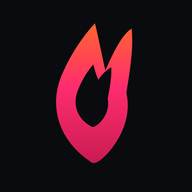
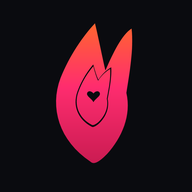
feat(brand): dating-badge heart cutout in nest as default mark
Promote dark negative-space heart inside open nest to production default
so the torch reads as fire + dating at Telegram/app sizes without
deforming the r3-06 outer path or using a pink sticker glyph.

Changed region(s): [[0.375, 0.3438, 0.5938, 0.6562]]

diff --git a/web/src/components/BrandMark.tsx b/web/src/components/BrandMark.tsx
@@ -1,15 +1,15 @@
 import { useId } from "react";
 
 /**
- * Знак марки: nested torch r3-06.
+ * Знак марки: nested torch r3-06 + тёмное сердце в гнезде (dating-бейдж).
  *
- * Снаружи пламя (оранж→малина), внутри тёмное гнездо с «ушками».
- * Без отдельного глифа и без крупного сердца. Геометрия = tools/brandmark.py.
+ * Снаружи пламя (оранж→малина), внутри открытое гнездо с «ушками»,
+ * ядро и negative-space сердце. Геометрия = tools/brandmark.py.
  */
 
-/** Пламя + гнездо (evenodd). viewBox 100×100. */
+/** Пламя + гнездо + ядро + сердце (evenodd). viewBox 100×100. */
 const ФАКЕЛ =
-  "M 50.000,81.494 C 35.850,72.061 31.470,57.236 36.523,43.760 C 40.566,33.652 46.631,24.893 52.021,19.165 C 54.043,27.588 55.391,35.000 56.738,40.391 C 60.107,32.642 64.150,24.219 68.530,21.523 C 69.541,30.957 67.520,41.738 66.172,50.498 C 68.530,60.605 64.150,70.713 57.412,78.125 C 53.369,82.168 51.348,82.842 50.000,81.494 Z M 50.450,65.683 C 44.323,62.473 41.919,56.266 44.070,50.074 C 45.803,45.173 48.630,40.724 51.251,37.715 C 52.094,40.674 52.757,43.065 53.580,44.592 C 54.551,43.065 56.403,40.674 59.349,38.964 C 59.645,43.824 58.476,49.114 57.743,53.202 C 58.691,57.762 56.497,61.957 53.480,64.624 C 51.798,65.881 50.994,66.076 50.450,65.683 Z";
+  "M 50.000,81.494 C 35.850,72.061 31.470,57.236 36.523,43.760 C 40.566,33.652 46.631,24.893 52.021,19.165 C 54.043,27.588 55.391,35.000 56.738,40.391 C 60.107,32.642 64.150,24.219 68.530,21.523 C 69.541,30.957 67.520,41.738 66.172,50.498 C 68.530,60.605 64.150,70.713 57.412,78.125 C 53.369,82.168 51.348,82.842 50.000,81.494 Z M 50.450,65.683 C 44.323,62.473 41.919,56.266 44.070,50.074 C 45.803,45.173 48.630,40.724 51.251,37.715 C 52.094,40.674 52.757,43.065 53.580,44.592 C 54.551,43.065 56.403,40.674 59.349,38.964 C 59.645,43.824 58.476,49.114 57.743,53.202 C 58.691,57.762 56.497,61.957 53.480,64.624 C 51.798,65.881 50.994,66.076 50.450,65.683 Z M 50.504,64.849 C 44.745,61.832 42.485,55.997 44.507,50.177 C 46.136,45.570 48.793,41.388 51.257,38.559 C 52.049,41.341 52.673,43.588 53.446,45.024 C 54.359,43.588 56.100,41.341 58.869,39.734 C 59.147,44.302 58.048,49.275 57.359,53.117 C 58.251,57.404 56.188,61.347 53.352,63.854 C 51.771,65.036 51.015,65.219 50.504,64.849 Z M 51.350,54.688 C 50.654,53.232 48.450,52.112 48.450,50.992 C 48.450,49.648 50.074,49.200 51.350,50.768 C 52.626,49.200 54.250,49.648 54.250,50.992 C 54.250,52.112 52.046,53.232 51.350,54.688 Z";
 
 export default function BrandMark({
   size = 64,

diff --git a/tools/brandmark.py b/tools/brandmark.py
@@ -1,12 +1,16 @@
-"""Знак марки: факел рассвета с nested тёмным силуэтом (r3-06 dawn).
+"""Знак марки: факел рассвета + dating-бейдж (сердце в гнезде).
 
-Снаружи — силуэт пламени/факела, градиент оранж → малина.
-Внутри — тёмное гнездо той же формы («ушки»), без отдельного глифа
-(+, бар, искра) и без крупного сердца, ломающего контур.
+Снаружи — силуэт пламени/факела r3-06, градиент оранж → малина.
+Внутри — открытое гнездо (ушки), затем ядро того же силуэта и
+тёмное сердце negative-space в оптическом центре nest.
+Иерархия как у Mimolet (внешняя форма + dating-noun), без деформации
+outer path. Сердце = вырез в цвет ядра/фона (#0a0b0f), не розовая
+наклейка и не белый глиф.
 
 Геометрия — outer r3-06-dawn (viewBox 1024→100) без изменений силуэта.
 Nest открыт ~11% и перераспределён по весу кольца (evenodd): тоньше
 пики/ушки, плотнее ножка. Долина стыка шардов сохранена.
+Core = nest ×0.94 от bbox-центра nest; сердце ~20% высоты nest.
 
 Растр через 4× supersample — PIL polygon без него оставлял светлую
 щель на AA.
@@ -58,26 +62,34 @@ _NEST_100 = (
     "C 51.798,65.881 50.994,66.076 50.450,65.683 Z"
 )
 
-# Микро-сердце внутри nest — только для A/B variant, не default mark.
-# viewBox 100; центр гнезда ~ (51.3, 52.5), компактно чтобы не
-# касаться ушек и не читаться как «сердце-факел».
+# Ядро гнезда: nest ×0.94 от bbox-центра nest — тонкое тёмное кольцо
+# ушек остаётся «открытым гнездом», внутри — поверхность под вырез сердца.
+_CORE_100 = (
+    "M 50.504,64.849 C 44.745,61.832 42.485,55.997 44.507,50.177 "
+    "C 46.136,45.570 48.793,41.388 51.257,38.559 "
+    "C 52.049,41.341 52.673,43.588 53.446,45.024 "
+    "C 54.359,43.588 56.100,41.341 58.869,39.734 "
+    "C 59.147,44.302 58.048,49.275 57.359,53.117 "
+    "C 58.251,57.404 56.188,61.347 53.352,63.854 "
+    "C 51.771,65.036 51.015,65.219 50.504,64.849 Z"
+)
+
+# Тёмное сердце в оптическом центре nest (~51.35, 52.0).
+# Высота ≈20% nest — читается в круге Telegram и на 32px, не гигант.
 _HEART_100 = (
-    "M 51.30,55.55 "
-    "C 49.95,54.55 48.95,53.35 48.95,52.05 "
-    "C 48.95,51.05 49.70,50.40 50.55,50.40 "
-    "C 50.95,50.40 51.30,50.60 51.30,50.60 "
-    "C 51.30,50.60 51.65,50.40 52.05,50.40 "
-    "C 52.90,50.40 53.65,51.05 53.65,52.05 "
-    "C 53.65,53.35 52.65,54.55 51.30,55.55 Z"
+    "M 51.350,54.688 "
+    "C 50.654,53.232 48.450,52.112 48.450,50.992 "
+    "C 48.450,49.648 50.074,49.200 51.350,50.768 "
+    "C 52.626,49.200 54.250,49.648 54.250,50.992 "
+    "C 54.250,52.112 52.046,53.232 51.350,54.688 Z"
 )
 
 # Половина высоты внешнего пламени в unit-space (для масштаба r).
 # (81.494 − 19.165) / 2 ≈ 31.16
 _UNIT_HALF = 31.16
 
-# Публичный path для сверки со SVG-носителями (outer + nest, evenodd).
-ФАКЕЛ_PATH_100 = f"{_OUTER_100} {_NEST_100}"
-ФАКЕЛ_HEART_PATH_100 = f"{_OUTER_100} {_NEST_100} {_HEART_100}"
+# Публичный path: outer \\ nest ∪ core \\ heart (evenodd).
+ФАКЕЛ_PATH_100 = f"{_OUTER_100} {_NEST_100} {_CORE_100} {_HEART_100}"
 
 # r3-06 асимметричен: левое ухо шире, правый кончик дальше.
 # Геометрический якорь path (50,50) и даже bbox силуэта врут — без
@@ -199,9 +211,11 @@ def _com_кольца(
 
 _OUTER_POLY = _полигон_из_path(_OUTER_100)
 _NEST_POLY = _полигон_из_path(_NEST_100)
+_CORE_POLY = _полигон_из_path(_CORE_100)
 _HEART_POLY = _полигон_из_path(_HEART_100)
 
 # Оптический якорь = COM цветного кольца (X с весом ушек), не bbox.
+# Считаем по outer\\nest — поля/safe margin как в 3f753cf.
 _ЯКОРЬ_X, _ЯКОРЬ_Y = _com_кольца(_OUTER_POLY, _NEST_POLY)
 
 
@@ -235,9 +249,8 @@ def _маска_знака(
     cx: float,
     cy: float,
     r: float,
-    с_сердцем: bool = False,
 ) -> Image.Image:
-    """Alpha-маска кольца (outer \\ nest), опционально + микро-сердце."""
+    """Alpha-маска: (outer \\ nest) ∪ (core \\ heart)."""
     if r < 1:
         return Image.new("L", size, 0)
 
@@ -246,14 +259,15 @@ def _маска_знака(
     big = (w * ss, h * ss)
     outer = _масштаб(_OUTER_POLY, cx * ss, cy * ss, r * ss)
     nest = _масштаб(_NEST_POLY, cx * ss, cy * ss, r * ss)
+    core = _масштаб(_CORE_POLY, cx * ss, cy * ss, r * ss)
+    heart = _масштаб(_HEART_POLY, cx * ss, cy * ss, r * ss)
 
     маска = Image.new("L", big, 0)
     draw_m = ImageDraw.Draw(маска)
     draw_m.polygon(outer, fill=255)
     draw_m.polygon(nest, fill=0)
-    if с_сердцем:
-        heart = _масштаб(_HEART_POLY, cx * ss, cy * ss, r * ss)
-        draw_m.polygon(heart, fill=255)
+    draw_m.polygon(core, fill=255)
+    draw_m.polygon(heart, fill=0)
     return маска.resize((w, h), Image.LANCZOS)
 
 
@@ -273,7 +287,7 @@ def нарисовать_знак(
     else:
         верх, середина, низ = ОРАНЖ, МАЛИНОВЫЙ, МАЛИНА_ТЁМНАЯ
 
-    маска = _маска_знака(img.size, cx, cy, r, с_сердцем=False)
+    маска = _маска_знака(img.size, cx, cy, r)
     градиент = _градиент_вертикаль(img.size, верх, низ, середина).convert("RGBA")
     градиент.putalpha(маска)
 
@@ -285,11 +299,11 @@ def нарисовать_знак(
 def сделать_mono_white(size: int = 1024) -> Image.Image:
     """Белый monochrome master на прозрачном — Liquid Glass / tinted iOS.
 
-    Не заменяет цветной канон. Силуэт = outer \\ nest, без сердца.
+    Не заменяет цветной канон. Силуэт = outer \\ nest ∪ core \\ heart.
     """
     img = Image.new("RGBA", (size, size), (0, 0, 0, 0))
     r = size * 0.36
-    маска = _маска_знака(img.size, size * 0.5, size * 0.5, r, с_сердцем=False)
+    маска = _маска_знака(img.size, size * 0.5, size * 0.5, r)
     белый = Image.new("RGBA", img.size, (255, 255, 255, 255))
     белый.putalpha(маска)
     img.alpha_composite(белый)
@@ -299,15 +313,13 @@ def сделать_mono_white(size: int = 1024) -> Image.Image:
 def svg_знак(
     *,
     mono_white: bool = False,
-    с_сердцем: bool = False,
     view: int = 100,
 ) -> str:
     """SVG viewBox 100×100 — те же path, что растр."""
-    path = ФАКЕЛ_HEART_PATH_100 if с_сердцем else ФАКЕЛ_PATH_100
+    path = ФАКЕЛ_PATH_100
     if mono_white:
-        fill = '#ffffff'
         defs = ""
-        fill_attr = fill
+        fill_attr = "#ffffff"
     else:
         defs = (
             '<defs>\n'
@@ -320,27 +332,28 @@ def svg_знак(
             "  </defs>\n  "
         )
         fill_attr = "url(#dawn)"
-    heart_note = " + micro-heart (A/B only)" if с_сердцем else ""
     return (
         f'<svg xmlns="http://www.w3.org/2000/svg" viewBox="0 0 {view} {view}" '
         f'width="{view}" height="{view}" fill="none" '
         f'role="img" aria-label="Souldawn">\n'
-        f"  <!-- nested torch r3-06{heart_note}. Геометрия = tools/brandmark.py -->\n"
+        f"  <!-- nested torch r3-06 + dark heart in nest. "
+        f"Геометрия = tools/brandmark.py -->\n"
         f"  {defs}"
         f'<path fill-rule="evenodd" d="{path}" fill="{fill_attr}"/>\n'
         f"</svg>\n"
     )
 
 
-def сделать_знак_с_сердцем(size: int = 512, bg: tuple[int, int, int] = (10, 11, 15)) -> Image.Image:
-    """A/B variant: default mark + микро-сердце в nest. Не production default."""
+def сделать_знак(
+    size: int = 512,
+    bg: tuple[int, int, int] = (10, 11, 15),
+) -> Image.Image:
+    """Цветной знак на тёмном фоне — production default."""
     img = Image.new("RGB", (size, size), bg)
     r = size * 0.36
-    маска = _маска_знака(img.size, size * 0.5, size * 0.5, r, с_сердцем=True)
-    градиент = _градиент_вертикаль(
-        img.size, ОРАНЖ, МАЛИНА_ТЁМНАЯ, МАЛИНОВЫЙ
-    ).convert("RGBA")
-    градиент.putalpha(маска)
-    база = img.convert("RGBA")
-    база.alpha_composite(градиент)
-    return база.convert("RGB")
+    нарисовать_знак(img, size * 0.5, size * 0.5, r)
+    return img
+
+
+# Совместимость со старым именем A/B-хелпера.
+сделать_знак_с_сердцем = сделать_знак

diff --git a/tools/make_icons.py b/tools/make_icons.py
@@ -2,10 +2,10 @@
 """
 Генератор иконки, splash-экрана и favicon.
 
-Знак марки — факел рассвета с nested гнездом (см. tools/brandmark.py).
-Иконка — тёмный квадрат в цвете фона приложения со знаком по центру:
-на домашнем экране пламя с тёмным силуэтом внутри читается с расстояния;
-без отдельного глифа и без крупного сердца.
+Знак марки — факел рассвета с nested гнездом и тёмным сердцем
+(dating-бейдж, см. tools/brandmark.py). Иконка — тёмный квадрат
+в цвете фона приложения со знаком по центру: на домашнем экране
+читается «огонь + знакомства».
 
 Цвета берутся из дизайн-системы (web/src/styles/globals.css), чтобы
 иконка, splash и интерфейс выглядели одним продуктом.
@@ -25,7 +25,7 @@ from brandmark import (
     ФАКЕЛ_PATH_100,
     нарисовать_знак,
     сделать_mono_white,
-    сделать_знак_с_сердцем,
+    сделать_знак,
     svg_знак,
 )
 
@@ -133,7 +133,7 @@ def sync_vector_carriers() -> None:
 
 
 def write_mono_and_variants() -> None:
-    """Белый mono master + A/B heart variant (не default)."""
+    """Белый mono master + цветной SVG + reference nest-heart PNG."""
     brand = WEB_PUBLIC / "brand"
     brand.mkdir(parents=True, exist_ok=True)
 
@@ -149,12 +149,13 @@ def write_mono_and_variants() -> None:
     mark_svg = brand / "mark.svg"
     _write_text(mark_svg, svg_знак(mono_white=False))
 
+    # Reference PNG того же канона (раньше A/B; теперь = default).
     variants = WEB_PUBLIC / "logo-variants"
     variants.mkdir(parents=True, exist_ok=True)
     heart_svg = variants / "r3-06-dawn-nest-heart.svg"
-    _write_text(heart_svg, svg_знак(с_сердцем=True))
+    _write_text(heart_svg, svg_знак(mono_white=False))
     heart_png = variants / "r3-06-dawn-nest-heart.png"
-    сделать_знак_с_сердцем(512, BG).save(heart_png, "PNG")
+    сделать_знак(512, BG).save(heart_png, "PNG")
     print(f"✓ {heart_png}")
 
 
